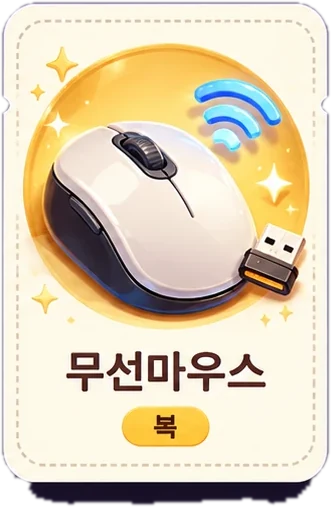
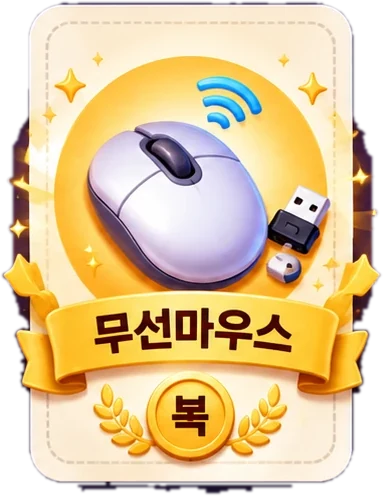
Use the ribbon-style 복 prize cards from the third sheet 04
Matches the ribbon style of the 불 mission cards. The panel dashed
borders under the ribbon tips are painted out before cutting.

Claude-Session: https://claude.ai/code/session_01GFgFtaH9nZqA5p5adDKDKQ

diff --git a/design/extract_assets.py b/design/extract_assets.py
@@ -40,10 +40,17 @@ save(cutout(S[4].crop((1072,562,1328,762))), 'badge_bok.png', 400)
 save(cutout(S[4].crop((1330,562,1588,762))), 'badge_bul.png', 400)
 for n,b in (('box_bok',(70,215,555,725)),('box_bul',(598,215,1080,725)),('box_person',(1125,215,1605,725))):
     save(cutout(S[3].crop(b)), n+'.png', 480)
-# 복 상품 카드 4종: 두 번째로 받은 시트 04 (커피카드 / 보조배터리 / 무선마우스 / 츄파춥스)
-S4v2=Image.open(D+'sheet_04_v2.webp').convert('RGB')
-for n,b in (('card_coffee',(68,200,425,745)),('card_battery',(462,200,820,745)),('card_mouse',(858,200,1214,745)),('card_chupa',(1252,200,1608,745))):
-    save(cutout(S4v2.crop(b)), n+'.png', 420)
+# 복 상품 카드 4종: 세 번째로 받은 시트 04 (리본 스타일)
+S4=np.array(Image.open(D+'sheet_04_v3.webp').convert('RGB')).astype(int)
+# 리본 끝이 패널 점선 테두리에 겹치므로, 점선(회색) 픽셀을 배경색으로 덮은 뒤 자름
+bgc=np.median(S4[300:600,5:40].reshape(-1,3),axis=0)
+for bx in (60,432,457,826,851,1219,1245,1618):
+    for x in range(bx-3,bx+4):
+        col=S4[:,x]; warm=(col[:,0]-col[:,2])>40   # 리본(노랑)은 유지
+        col[~warm]=bgc
+S4v3=Image.fromarray(S4.astype('uint8'))
+for n,b in (('card_coffee',(45,215,446,738)),('card_battery',(446,215,839,738)),('card_mouse',(839,215,1233,738)),('card_chupa',(1233,215,1634,738))):
+    save(cutout(S4v3.crop(b)), n+'.png', 440)
 for n,b in (('card_toast',(72,180,556,778)),('card_poem',(598,180,1082,778))):
     save(cutout(S[1].crop(b)), n+'.png', 480)
 bg=S[1].crop((1240,226,1488,742)).resize((540,1124),Image.LANCZOS).filter(ImageFilter.GaussianBlur(2))
